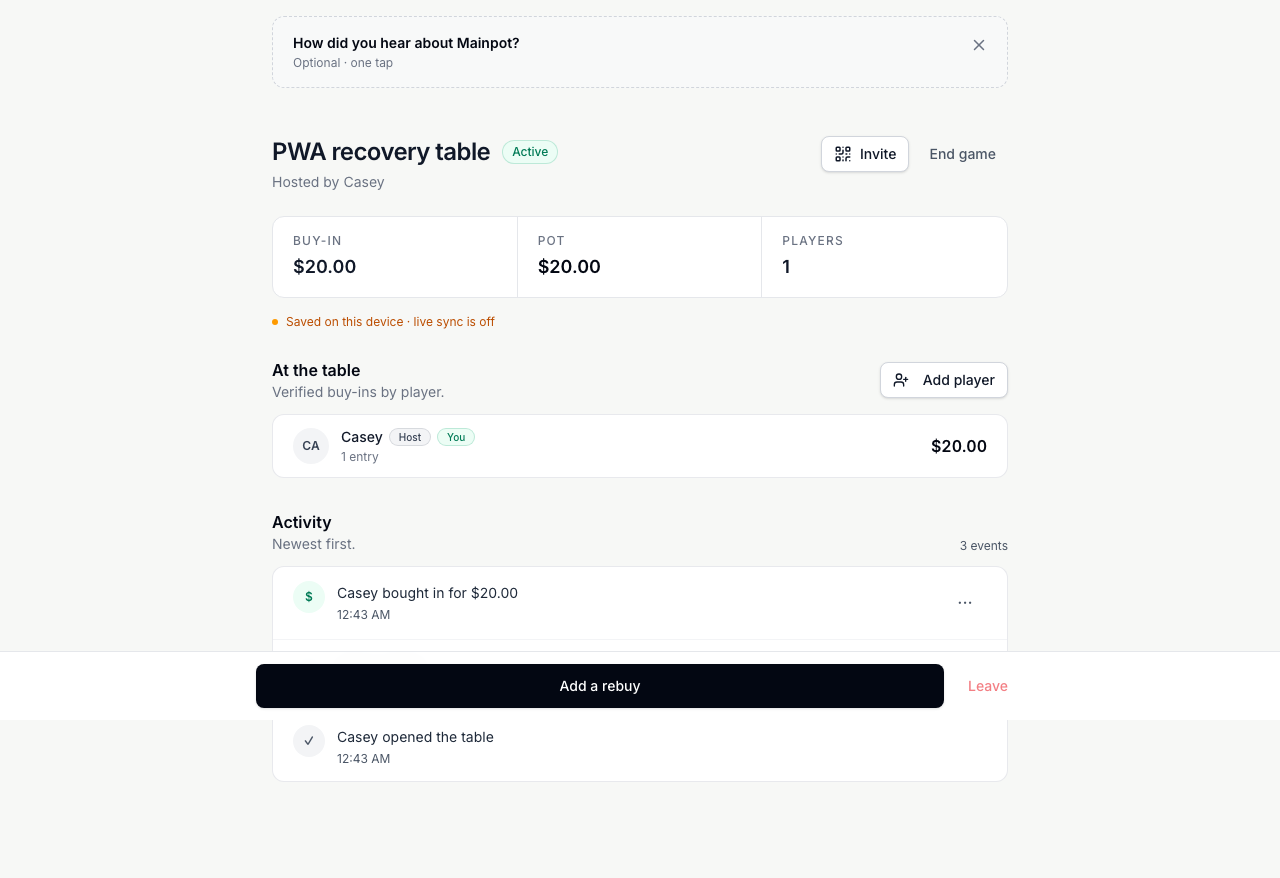
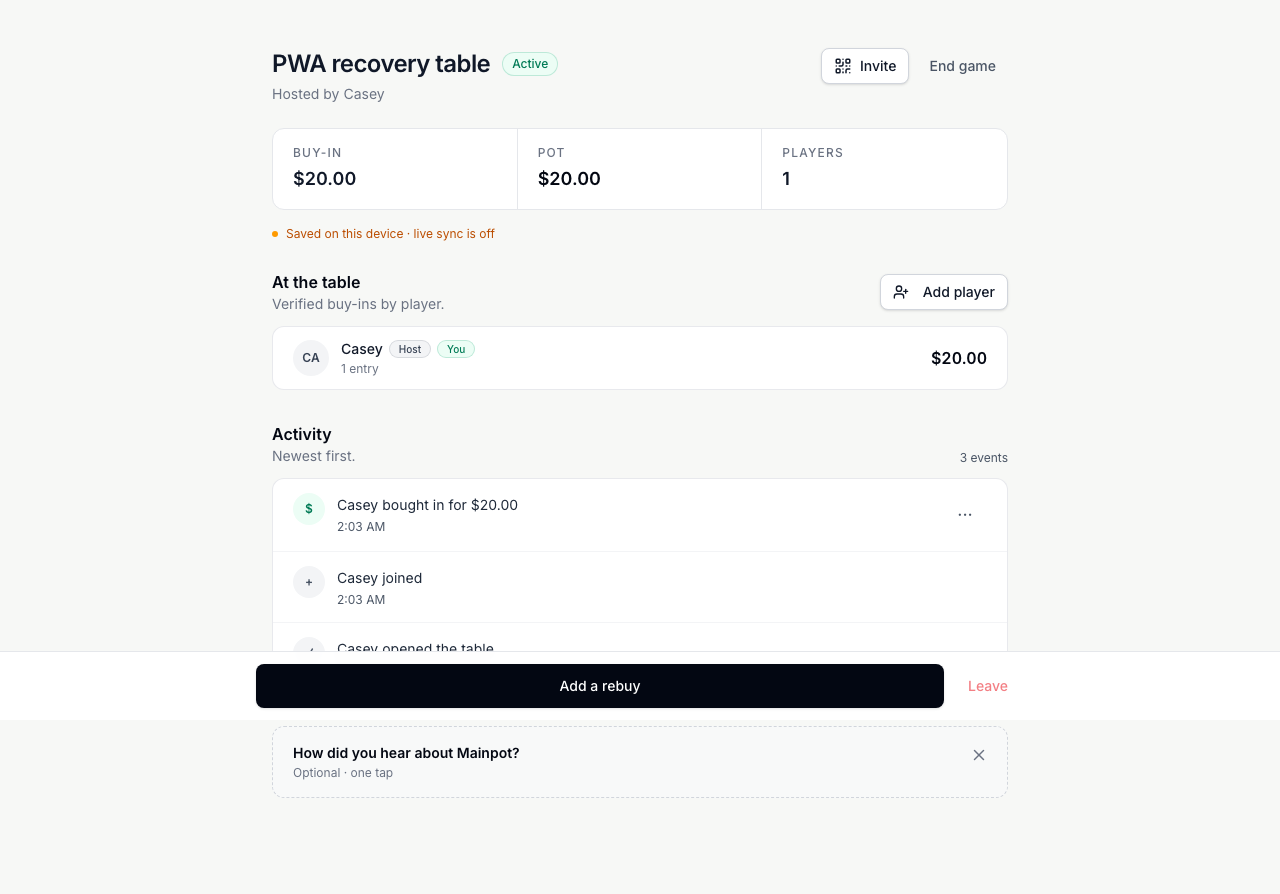
Complete reliability UX audit with device and PWA verification evidence

diff --git a/docs/audits/2026-09-26/report.md b/docs/audits/2026-09-26/report.md
@@ -1,6 +1,8 @@
 # Mainpot reliability and UX audit — September 26, 2026
 
-Status: initial audit; implementation and independent verification pending. Baseline: `2360a44`, clean checkout, 138 unit tests passed. This report distinguishes code findings, browser reproduction, database verification, and physical-device limitations. No production release is implied.
+Status: audit, fixes, and independent verifier/refix loop completed locally. Baseline: `2360a44`, clean checkout, 138 unit tests passed. This report distinguishes code findings, browser reproduction, database verification, and physical-device limitations. No production release was performed.
+
+All reported concerns have implemented fixes: unfinished-game recovery and safe new creation, account dashboard Resume prompts, bounded host edits with retained drafts, automatic opening buy-ins, immediate host approval, and a persisted host/player bank option. The broader pass also addressed guest-account recovery, settlement races, stale-read prevention, cash-out draft loss, and PWA/navigation errors. Final results are 155 unit tests, 110 integrated realtime checks, 72 smoke/PWA checks, six database assurance scripts, and ten hosted follow-up checks passed. Three WebKit service-worker-control cases are explicitly skipped. Physical installation and OS lifecycle checks remain unverified.
 
 ## Scope and acceptance criteria
 
@@ -17,6 +19,7 @@ Audit complete host/player journeys: account sign-in, dashboard, existing unfini
 | A07 | Medium | Bank settlement choice ineffective | Existing bank calculation is only a preview: `SettlementScreen` forces finalized mode to `min`. Host must choose Fewest payments or named banker before lock; save shared immutable choice and use it consistently for all player instructions, counts, ledger, summaries, and payment status after reload. |
 | A08 | Medium | General polish and mobile/PWA recovery | Test focus, validation, dialogs, loading/error escape paths, narrow-screen overflow, reload and offline recovery with captured evidence. Address concrete defects; document platform limitations. |
 | A09 | High | Guest games can be lost from account recovery after sign-in/sign-up | Preserve proven guest ownership through authentication; never allow an arbitrary browser-session value to claim another user's ledger. Verify account-wide resume after transfer and reject token replay/expiry/conflicting seats. |
+| A10 | Medium | Cold local data requests occasionally reject a valid session | Handle the precise pre-execution auth rejection safely without replacing identity or duplicating financial writes. |
 
 ## Initial evidence
 
@@ -77,4 +80,106 @@ Run baseline and regression unit coverage, database migrations/authorization che
 
 ## Implementation and verification record
 
-Pending.
+| Item | Implemented behavior | Regression evidence |
+| --- | --- | --- |
+| A01 | Guests may host two unexpired unfinished tables; setup explains this and offers separate Resume cards plus Start another game. Device recovery keeps three recent room codes, preserving the legacy single key. No ledger is silently ended. Creation uses a persistent operation/code so retrying an unknown outcome returns the original table; limit failures remain visible beside recovery actions. | Committed response lost, then safe replay; concurrent server create/replay; second-table creation, both recovery cards, third-table limit and first-ledger preservation; session compatibility unit cases. |
+| A02 | Required auth and section reads have deadlines. Each optional section settles independently with an unavailable message; profile/history remain usable when deletion status fails. Retry retains the loaded page. | Injected optional endpoint failure and retry, bounded-read units, desktop/mobile dashboard screenshots. |
+| A03 | Dashboard discovers hosted and joined active/settling tables, removes expired/ended tables, deduplicates seats, and puts Resume above statistics. Membership queries name the correct foreign key now that games also reference a banker. | Fresh browser sign-in and same-seat host controls; unfinished card disappears after finalized settlement. |
+| A04 | Correction editor awaits completion, disables only its busy controls, keeps the entered draft and visible retry error on timeout. Correction writes carry an operation key; unchanged retries reuse it and a changed amount gets a new key. Auth initialization also has a bounded fallback. Failed auth verification cannot silently replace the existing browser identity with a fresh anonymous account. | A request held for 20 seconds releases the editor at its 15-second deadline; the retained draft can be changed and saved as exactly one entry. Database checks cover idempotent replay and unauthorized correction. |
+| A05 | A new join transaction creates a seat, one configured opening buy-in, and its audit trail. Player openings remain pending. Existing/rejoining seats receive no additional entry. A committed join with failed refresh offers recovery. | Two-player realtime joins, reload/rejoin without duplication, guarded database writes. A previously left seat is returned unchanged; rejoining does not reverse its recorded departure. |
+| A06 | Host correction validates amount, verifies the entry, and records the edit atomically. Direct unaudited amount changes are rejected. Host-created rebuys retain immediate approval. | Corrected guest entry leaves Needs approval and updates the pot; ordinary guest entries still require approval. |
+| A07 | Host chooses Fewest payments or a named active banker before locking. The immutable shared choice drives all personal/shared transfers, totals, payment keys, and reloads. Banker sees outgoing payouts and incoming collections independently. | Three separate sessions plus a managed fourth player; partial completion after reload and shared final completion. Database denies non-host, cross-game, active-phase, and finalized plan rewrites. |
+| A08 | Offline retry preserves the intended room path/query/hash. Reconnect update failures are caught. Acquisition and post-game feedback sit below core actions. Financial settlement gates are enforced at the database as well as in the UI. | Real Chromium worker offline/reload/online navigation; manifest/cache checks; multi-width smoke, keyboard/validation dialogs, and captured screenshots. |
+| A09 | Before guest auth is replaced, mint a ten-minute hashed capability. Permanent auth claims it transactionally, transfers seats/host ownership, clears guest expiry and preserves finalized history. Same claimant can retry a lost response; different claimants, expired tokens, wrong email, and conflicting seats are rejected. Token stays in same-browser storage/cookie, never callback URLs. | Guest signup then fresh-browser account recovery; dedicated token authorization/expiry/conflict/replay/history checks. Real Google OAuth/email delivery are outside disposable-provider verification. |
+| A10 | Retry a data request once after the exact HTTP 401 / PGRST303 / “JWT issued at future” rejection. Preserve the same body, operation key, identity, and abort signal. No retry for other failures or unknown write outcomes. Live data GET/HEAD requests bypass the browser cache. | Nine fetch-policy unit cases plus an injected creation rejection on every device project verify identical replay, finite retry, other-error handling, abort, method precedence, and unchanged writes. |
+
+### Independent verifier and refix loop
+
+Separate agents handled lifecycle fixes, bank/account work, and independent PWA/integration review in isolated worktrees. Root integrated each batch and owned final verification. The reviewer and integrated tests prompted these additional corrections:
+
+1. Banker incoming payments were hidden whenever outgoing payments existed; render both directions and keep the remaining collection visible after payouts.
+2. Dashboard retry briefly removed loaded content; retain the page during refresh.
+3. Unsafe end transitions could bypass pending entries, cash-outs, or stale discrepancy allocation. Add authoritative phase, completeness, allocation-capacity, and finalized-immutability checks.
+4. Financial writes could race the end transition. Serialize on the game row; keep observer-host automatic zero cash-outs compatible with the phase guard.
+5. Early-exit requests could race active-to-settling and leave an unresolvable request. Serialize early-exit status changes with the same game transition.
+6. A new banker foreign key made the dashboard membership query ambiguous; specify the seat-to-game relationship explicitly.
+7. Correction drafts reused a key after the amount changed; keep the key only for the same request payload.
+8. Recovery tokens initially appeared in callback parameters and retries could be mistaken for account-creation failures; keep same-browser proof, email binding, bounded calls, and an authenticated recovery-retry state.
+9. Creation could commit without returning its room code, then retry as a second game. Reserve one owned operation with the full payload and retain it through the client deadline. Concurrent requests and a committed-but-lost response now have regression coverage.
+10. Auth read errors used to be treated like absent sessions and could trigger a new anonymous identity. Only a genuinely missing session may create a guest account.
+11. Browser helpers could mistake a join-dialog heading for a completed join; wait for the committed seat. Multi-session contexts now inherit device settings instead of silently using desktop defaults.
+12. Cold requests on the disposable PostgREST 16.1 stack sporadically rejected a valid JWT. The [upstream changelog](https://github.com/PostgREST/postgrest/blob/main/CHANGELOG.md) records this bug as fixed in 16.3. The client now retries only that precise pre-execution rejection once, with the identical request. Token verification and server clock settings remain unchanged.
+13. Rapid cash-out entry exposed a draft reconciliation race: after blur, the old snapshot could overwrite the amount while its save was pending. Preserve pending and failed drafts, use a synchronous draft ref, and retry unchanged failures. Independent follow-up review caught the same fallback after a successful save before its snapshot arrived; remove the fallback and explicitly hold the snapshot in the regression. Retain rapid multi-player entry coverage.
+14. Local smoke assertions still expected the survey above core controls and a copy-only bank label in the rendered plan. Update them to assert the intended order and the actual locked banker control before and after reload; do not change the product to satisfy stale assertions.
+15. WebKit recorded a push-config access-control error during full navigation. The existing promise catches ordinary rejection; unmount-only cleanup did not eliminate the error. Device-only games cannot receive server push notifications, confirmed by the server's configuration requirements. Skip that unsupported request entirely and abort hosted config requests on permanent page exit as well as unmount. Independent review also preserved requests when a page is retained in the browser's back-forward cache, so restoring it does not leave push controls disabled. Tests assert zero local-mode config requests and retain the uncaught-browser-error check. The exact browser-internal error cause is not proven.
+16. The account-recovery test reloaded immediately after submitting deletion, cancelling an unacknowledged request on WebKit. Wait for the confirmed pending state before asserting persistence after reload. This changes test sequencing, not account deletion behavior.
+17. Repeated tablet testing exposed intermittent lost input under parallel load. Nine serial traced tablet checks and 45 repeated parallel checks across all five profiles passed, including native input/DOM identity diagnostics. Snapshot GET responses had no explicit cache control; force live PostgREST GET/HEAD reads to `no-store`, preserve write options, and verify the entered value before moving to the next field. HTTP caching is a plausible contributor, not a proven cause. The final integrated run follows these changes.
+18. The delayed-snapshot regression passed its product assertions but initially failed while unregistering a still-running request handler. Drain released handlers before cleanup, then rerun the same assertions; the repeated 45-case run passed with that repair.
+
+### Release and verification boundary
+
+All changes are local commits on this checkout. The disposable database receives migrations for testing; the developer database and hosted production database have not received these migrations. No push, CI run, hosted deployment, or independent production verification is implied. The UI requires its matching migrations before a release, especially the automatic join, correction RPC, banker columns, and ownership transfer.
+
+Apply the six new migrations together, in filename order, through the normal release workflow:
+
+- `20260926000000_lock_settlement_plan.sql`
+- `20260926054008_lifecycle_buy_in_reliability.sql`
+- `20260926054911_account_transfer_tokens.sql`
+- `20260926060000_serialize_ledger_phase.sql`
+- `20260926061504_game_creation_idempotency.sql`
+- `20260926070000_serialize_early_cash_out_phase.sql`
+
+The guest limit of two unfinished tables is an explicit policy retained in the UI and database; account hosts can recover their tables through dashboard membership. Timeout errors describe an uncertain outcome when appropriate: a client deadline does not prove a server write rolled back. Creation and host correction therefore use owned idempotency keys rather than treating timeout as permission to issue a different financial write.
+
+### Visual assessment
+
+The 390px iPhone-sized captures show the account Resume action above statistics, full-width reconnect controls, readable amount/recipient rows, and no horizontal overflow in the dashboard or bank result. Banker instructions show both directions before the recap/share card; optional feedback now follows the payment ledger. Desktop and tablet captures are checked separately rather than treating mobile screenshots as proof of larger layouts. The screenshot names contain the actual CSS viewport width, while device-scale raster dimensions can be larger.
+
+- [iPhone-sized dashboard reconnect](evidence/dashboard-resume-390.png)
+- [Android-sized dashboard reconnect](evidence/dashboard-resume-393.png)
+- [iPhone-sized banker payout and collection](evidence/mobile-safari-bank-390.png)
+- [Android-sized banker payout and collection](evidence/mobile-chrome-bank-393.png)
+- [Desktop banker payout and collection](evidence/chromium-bank-1280.png)
+- [Tablet banker payout and collection](evidence/tablet-safari-bank-768.png)
+- [Tablet dashboard reconnect](evidence/dashboard-resume-768.png)
+
+### Physical-device acceptance boundary
+
+Playwright emulation establishes browser rendering, touch viewport behavior, network interruption/reload, and application/data flow. It does not establish installation from Safari's Share sheet, Android's native install UI, OS process eviction, real keyboard placement, standalone safe-area behavior on hardware, or push delivery. No physical phone was available to the audit. The disposable-stack auth anomaly and its precise bounded retry are documented as A10; they are not evidence of a production clock problem.
+
+For an actual-device release check, install from the target browser, create/join and approve a table, background/kill/reopen the installed app, recover the same seat, toggle airplane mode while the room is open, reconnect and reload, then finish cash-outs and confirm the persisted payment plan. Check the installed app again after deploying an update. Financial writes are deliberately not queued offline and private ledgers are deliberately not cached in the service worker.
+
+### Final test matrix
+
+| Check | Result / boundary |
+| --- | --- |
+| Unit tests | 155 passed across 24 files. |
+| Disposable database assurance | All six scripts passed: lifecycle/ledger rules, audit authorization, settlement allocation/immutability, account transfer security, early-exit phase concurrency, and concurrent creation/replay. |
+| ESLint | Passed after the final product fixes. |
+| TypeScript / production build | Final production build and `tsc --noEmit` passed after the last product change. |
+| Realtime browser flows | 110 passed across all five profiles in one final integrated run (4.1 minutes, three workers, zero retries). |
+| Hosted follow-up | Ten account-recovery/navigation and shared-bank checks passed across all five profiles after optional push setup cleanup (35.1 seconds). The subsequent back-forward-cache guard received review and final build/type checks; actual cached-page restoration remains a manual platform check. |
+| Local-mode smoke / PWA | 72 passed, three explicitly skipped WebKit worker-control cases (31.6 seconds, three workers, zero retries). Actual Chromium worker offline/recovery passed on desktop and mobile. |
+| Independent review | Lifecycle, bank/account, PWA, database-phase integration, exact JWT retry, fresh-read policy, and final cash-out refix reviewed by separate agents. No remaining actionable blockers reported. |
+| Production | Not pushed or deployed; no hosted migrations applied or live production validation performed. |
+| Physical devices | Not available; installed-app lifecycle acceptance remains a release check. |
+
+Both browser suites use these projects: desktop Chromium (1280px), Pixel 5 Chromium (393px), iPhone 13 WebKit (390px), desktop WebKit (1440px), and iPad Mini WebKit (768px). The smoke suite also forces 320px layouts, checks dialog placement and keyboard focus, validates amount errors, and exercises the complete local game journey. “Safari” project names refer to Playwright WebKit emulation, not an installed Safari app or physical Apple device. Native install prompts are simulated in browser tests; the offline navigation test uses an actual Chromium service worker.
+
+Browser fault-injection contexts block service workers so Playwright can intercept requests consistently in WebKit; the separate PWA test enables a real worker and exercises its offline navigation behavior. Early WebKit failure-injection misses were test interception failures: the actual correction succeeded normally, and the optional dashboard endpoint responded normally. They were rerun with deterministic interception rather than counted as successful injected-failure coverage.
+
+Reproduce locally:
+
+```sh
+npm test
+npm run lint
+npx tsc --noEmit
+npm run test:db:assurance:isolated
+PLAYWRIGHT_ALL_DEVICES=1 npm run test:e2e:realtime -- --workers=3
+NEXT_PUBLIC_SUPABASE_URL='' NEXT_PUBLIC_SUPABASE_ANON_KEY='' PLAYWRIGHT_ALL_DEVICES=1 npm run test:e2e -- --workers=3
+git diff --check
+```
+
+Run the database and browser commands serially. The realtime harness uses the isolated `mainpot-e2e` project, API port 55321, app port 3110, and a separate build directory; it resets only that disposable database. The final local-mode suite builds and serves the production application on port 3100 with hosted credentials cleared. Ensure port 3100 is free before running it, because the default smoke configuration permits reusing an existing developer server.
+
+The full realtime run verified application revision `20d3844`; the successful local-mode and hosted follow-ups verified `223eb17`. Final production revision `536dda9` adds only the reviewed cached-history preservation guard and passed production build, type checks, and lint. These revisions are recorded so browser evidence is not silently attributed to an untested native cache-restoration path. See [verification record](verification.json) for commands, counts, environment, and boundaries. Raw browser traces are kept out of the committed report because they can contain temporary auth credentials; the committed evidence consists of screenshots and this summarized record.
